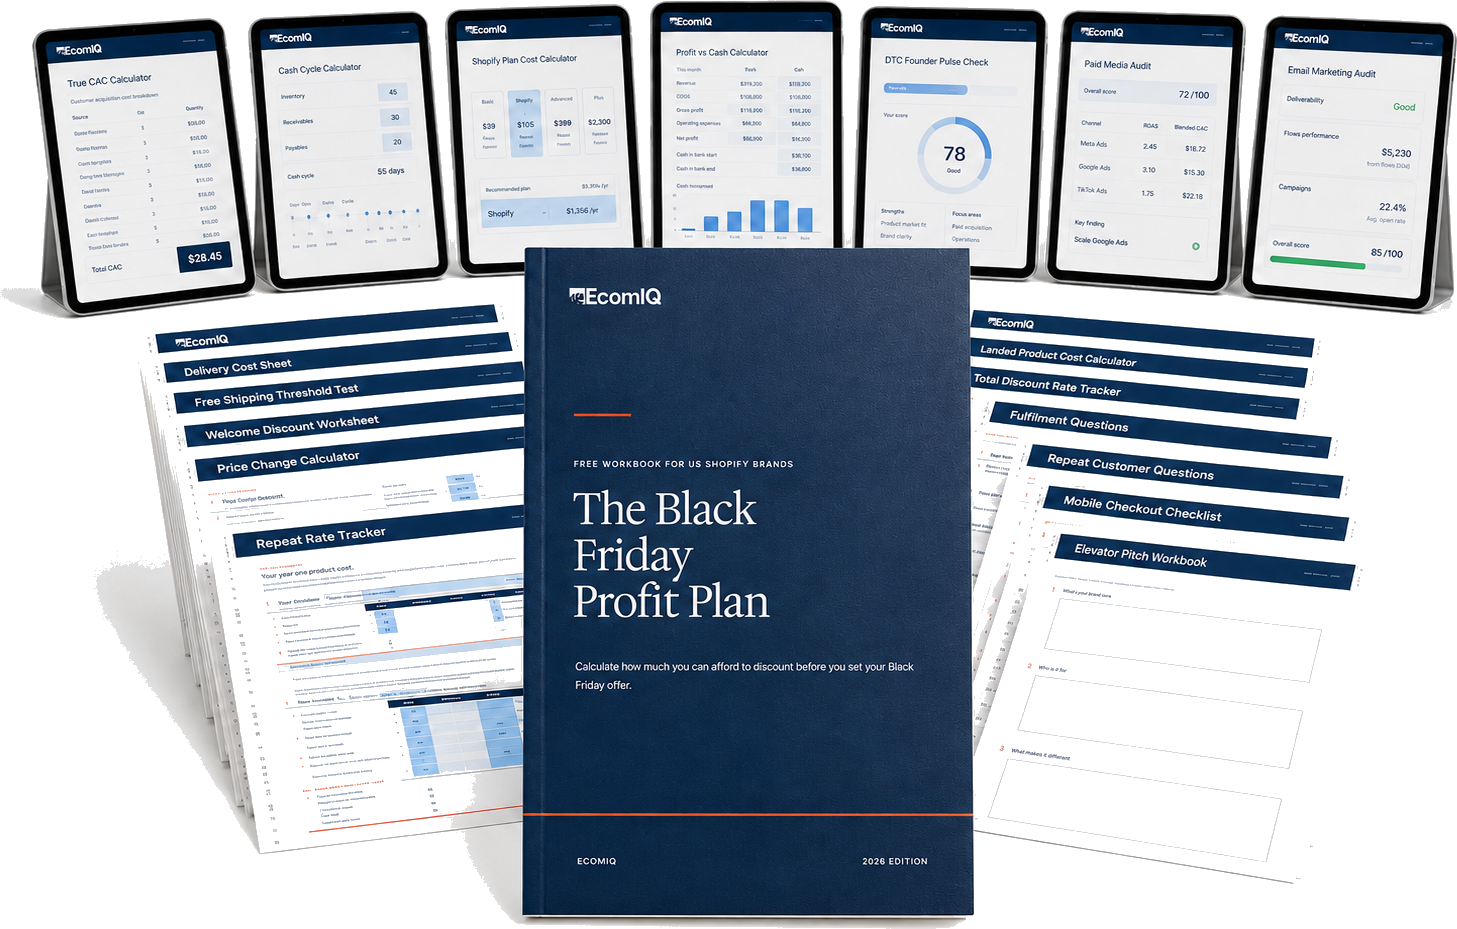
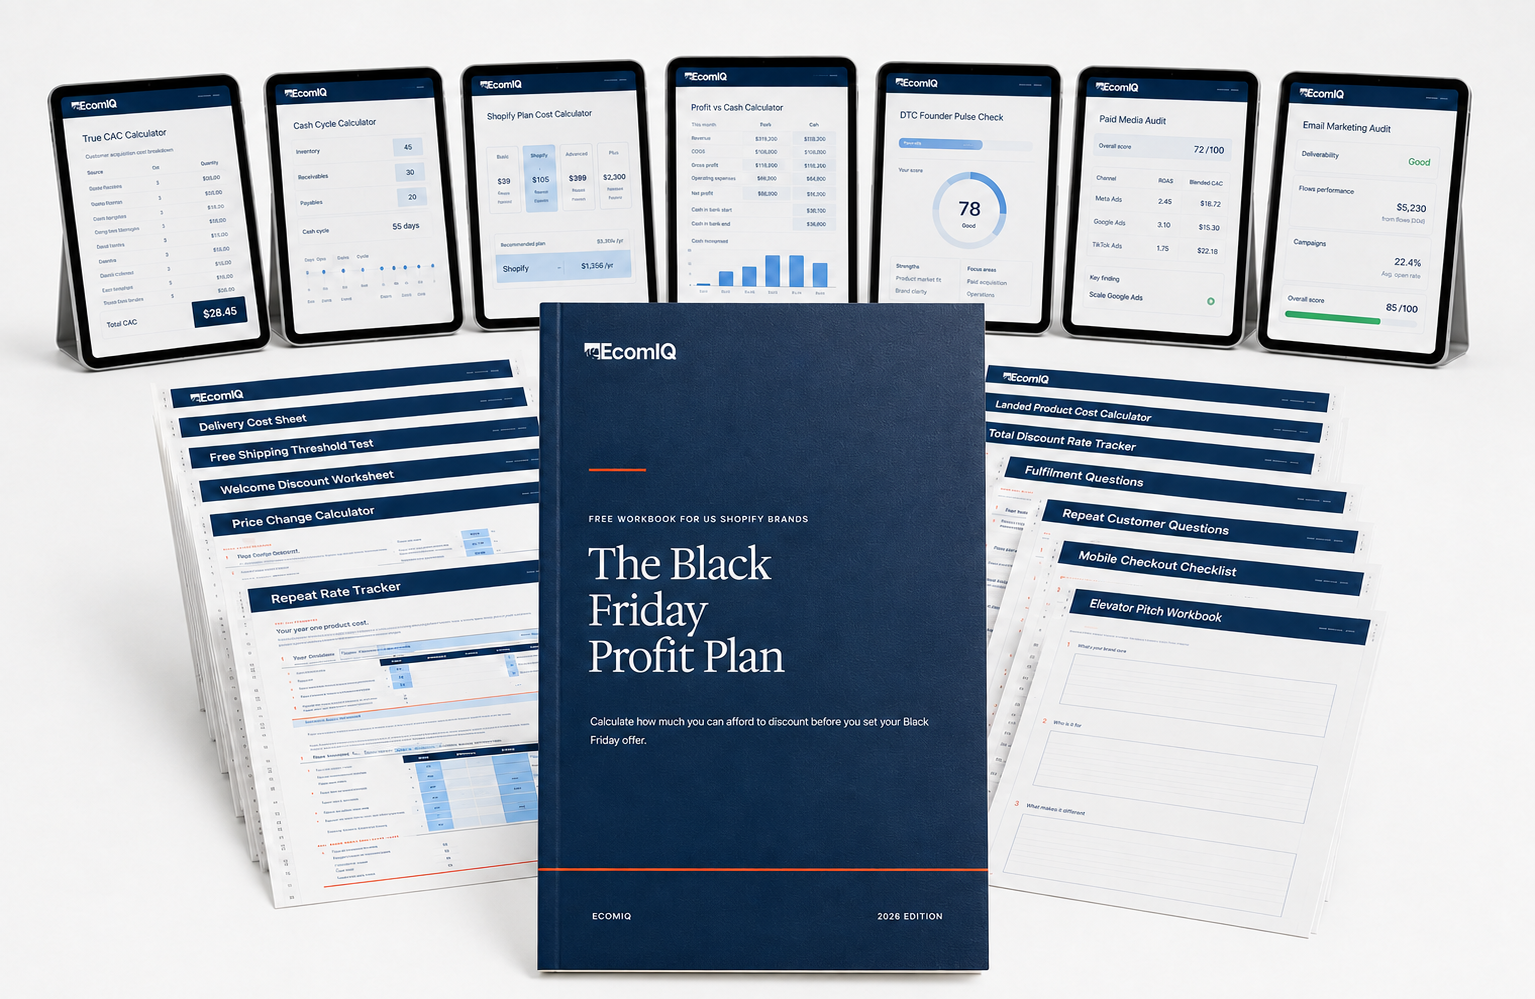
Treat the two product stills differently, and say why
The corner flood-fill that correctly cleans the workbook cover was wrong for
the toolkit spread: its worksheets are white paper touching the white
backdrop, so the fill ran through the page edges and left them torn.

  workbook-hero   dark navy book on white, so the fill only removes the
                  mockup backdrop. Sits directly on navy, running large.
  toolkit-spread  keeps its backdrop, presented as a rounded white photo card.

prep-bf-assets.sh applied a plain -trim to both, so re-running it would have
silently reintroduced the white rectangle beside the cover. It now reproduces
each still the way the composition expects, with the reasoning inline.

Claude-Session: https://claude.ai/code/session_011z9EyrvhL1WqyEvnjq7vuU

diff --git a/video-projects/ecomiq-bf-workbook/assets/ad.css b/video-projects/ecomiq-bf-workbook/assets/ad.css
@@ -215,7 +215,10 @@ body.r-1x1 #logo-wrap img { width: 97px; }
   filter: drop-shadow(0 46px 90px rgba(0, 0, 0, 0.6)); }
 #hero-shot { width: var(--cover-w); }
 #page-shot { width: var(--page-w); border-radius: 10px; }
-#free-shot { width: var(--spread-w); }
+/* The toolkit spread's worksheets are white paper touching the white
+   backdrop, so knocking the background out erodes the pages themselves.
+   It keeps its backdrop and reads as a photo card instead. */
+#free-shot { width: var(--spread-w); background: #fff; border-radius: 18px; }
 .scene .eyebrow { margin-bottom: 34px; }
 #page-callout { margin-top: 40px; display: flex; align-items: baseline; gap: 22px;
   padding: 26px 40px; border-radius: 16px; background: #0a325f;
